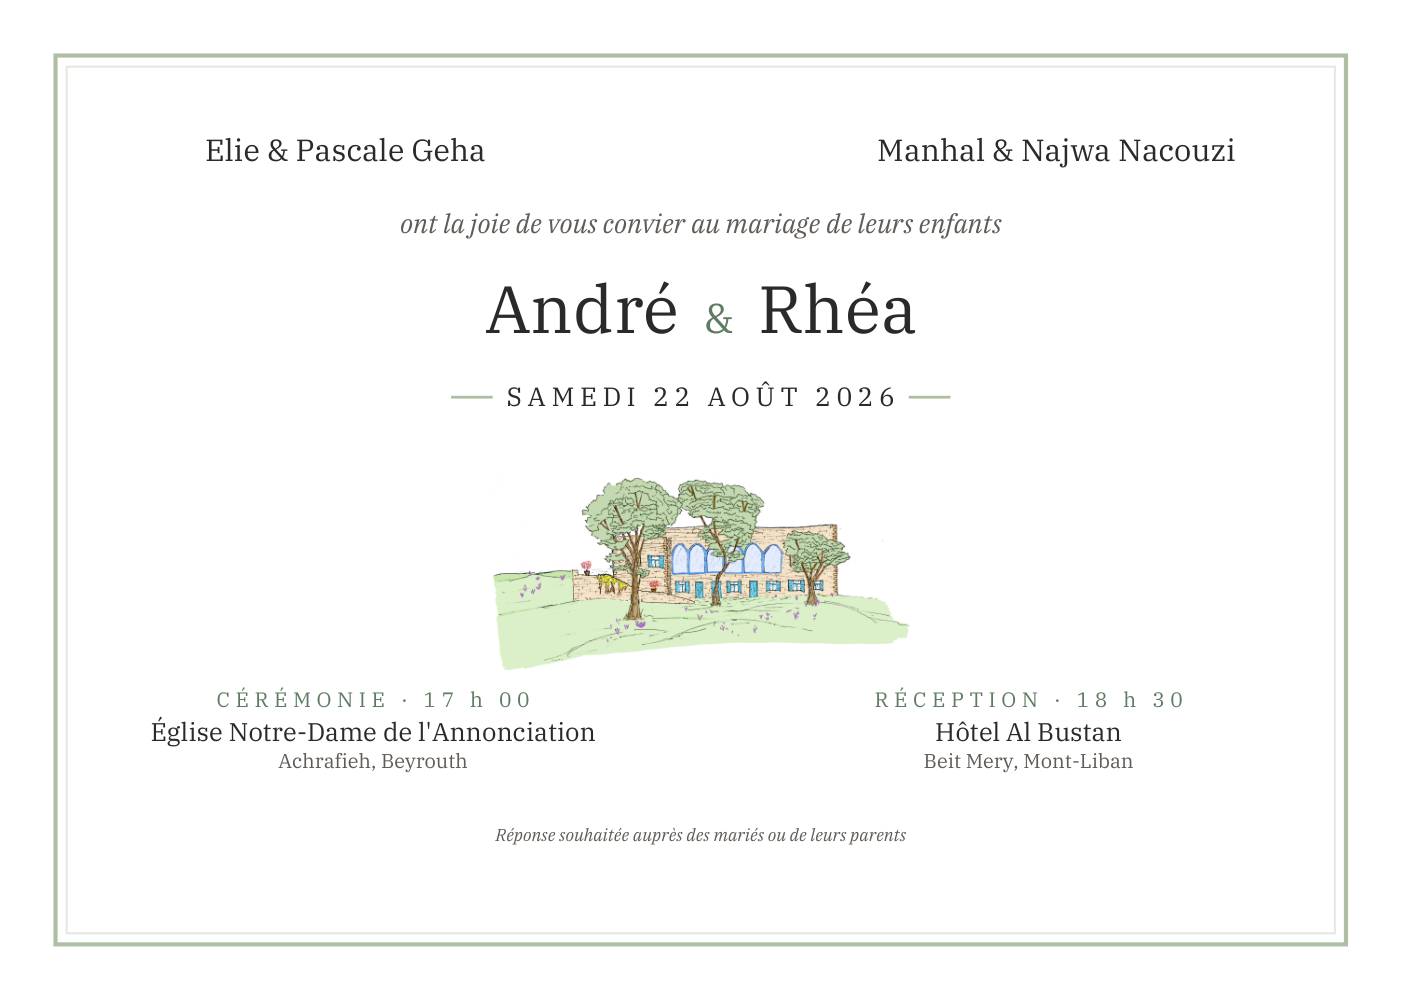
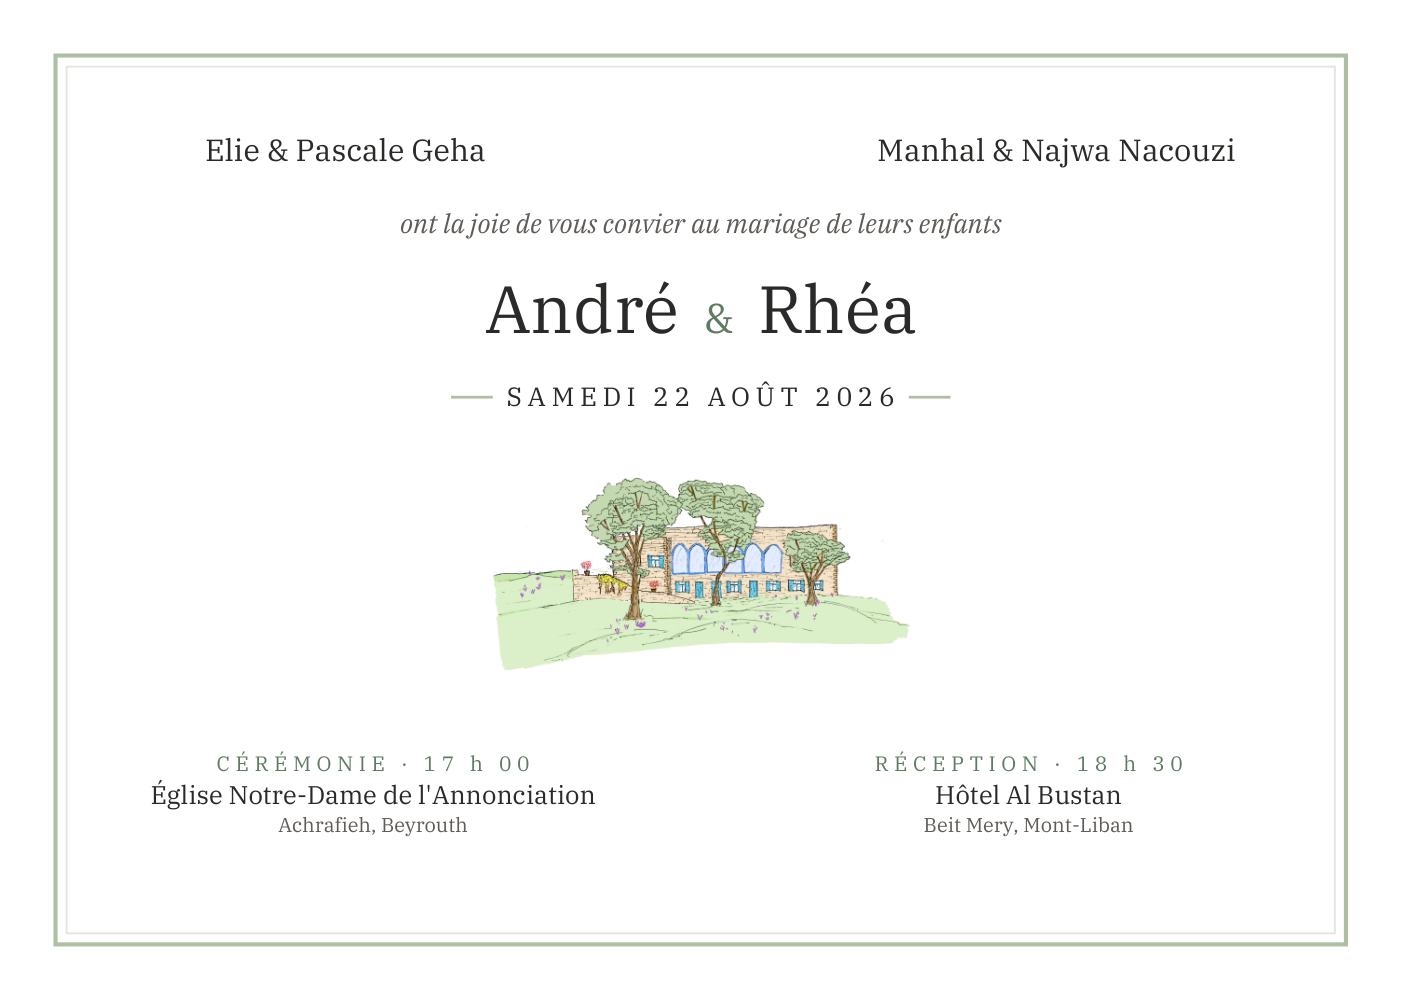
Minimal card: remove RSVP line, lower cérémonie/réception into the freed space (#43)
Claude-Session: https://claude.ai/code/session_01Wi2TL2Ecb6DLgMXuheYsrH

Changed region(s): [[0.092, 0.682, 0.4294, 0.837], [0.6134, 0.682, 0.8281, 0.837]]

diff --git a/assets/print/generate_invitation.py b/assets/print/generate_invitation.py
@@ -140,38 +140,38 @@ def render_card(path, png, qr_on=True, gift_on=True):
     ih = iw*art.height/art.width
     c.drawImage(ImageReader(art), cx-iw/2, H-(top_img+ih), width=iw, height=ih)
 
-    # ceremony / reception two columns
+    # ceremony / reception two columns — dropped lower on the minimal card so they take the
+    # space freed by removing the RSVP line + footer
     def vblock(role, venue, addr, cxc, top):
         spaced(role, cxc, top, "Plex", 7.5, 2.0, SAGE)
         center(venue, cxc, top+12, "Plex", 9.2, INK)
         center(addr, cxc, top+22, "Plex", 7.2, MUTED)
-    vy = top_img + ih + 13
+    vy = top_img + ih + (36 if not gift_on else 13)
     vblock(*CEREMONY, cx-118, vy)
     vblock(*RECEPTION, cx+118, vy)
 
-    # RSVP line (with the QR beside it when qr_on); the minimal card drops the deadline + « en ligne »
-    rsvp = ("Réponse souhaitée avant le 28 juillet 2026 — auprès des mariés, de leurs parents, ou en ligne"
-            if gift_on else "Réponse souhaitée auprès des mariés ou de leurs parents")
-    ry_top = vy + 22 + 11
-    if qr_on:
-        qw = qr.QrCodeWidget(SITE); qw.barFillColor = INK
-        b = qw.getBounds(); bw, bh = b[2]-b[0], b[3]-b[1]; qs = 26
-        c.setFont("PlexIt", 6.2); rw = c.stringWidth(rsvp, "PlexIt", 6.2)
-        gap = 9; gx = cx - (rw + gap + qs)/2
-        c.setFillColor(MUTED); c.drawString(gx, Y(ry_top + qs/2 + 2.2), rsvp)
-        dwg = Drawing(qs, qs, transform=[qs/bw, 0, 0, qs/bh, 0, 0]); dwg.add(qw)
-        renderPDF.draw(dwg, c, gx + rw + gap, H-(ry_top+qs))
-        gy = ry_top + qs + 13
-    else:
-        center(rsvp, cx, ry_top + 15, "PlexIt", 6.2, MUTED)
-        gy = ry_top + 39
-
-    # discreet gift footer — small title, one compact line per account (omitted on the minimal card)
     if gift_on:
+        # RSVP line (with the QR beside it when qr_on), then the « Liste de mariage » footer
+        rsvp = "Réponse souhaitée avant le 28 juillet 2026 — auprès des mariés, de leurs parents, ou en ligne"
+        ry_top = vy + 22 + 11
+        if qr_on:
+            qw = qr.QrCodeWidget(SITE); qw.barFillColor = INK
+            b = qw.getBounds(); bw, bh = b[2]-b[0], b[3]-b[1]; qs = 26
+            c.setFont("PlexIt", 6.2); rw = c.stringWidth(rsvp, "PlexIt", 6.2)
+            gap = 9; gx = cx - (rw + gap + qs)/2
+            c.setFillColor(MUTED); c.drawString(gx, Y(ry_top + qs/2 + 2.2), rsvp)
+            dwg = Drawing(qs, qs, transform=[qs/bw, 0, 0, qs/bh, 0, 0]); dwg.add(qw)
+            renderPDF.draw(dwg, c, gx + rw + gap, H-(ry_top+qs))
+            gy = ry_top + qs + 13
+        else:
+            center(rsvp, cx, ry_top + 15, "PlexIt", 6.2, MUTED)
+            gy = ry_top + 39
+        # discreet gift footer — small title, one compact line per account
         c.setStrokeColor(LINE2); c.setLineWidth(0.7); c.line(cx-84, Y(gy), cx+84, Y(gy))
         spaced(GIFT_TITLE, cx, gy+9, "Plex", 6.2, 1.6, SAGE)
         center(GIFT_LB, cx, gy+18, "Plex", 5.9, MUTED)
         center(GIFT_FR, cx, gy+26, "Plex", 5.9, MUTED)
+    # (minimal card: no RSVP line and no footer — the venues are the last element)
     c.showPage(); c.save()
     fitz.open(path)[0].get_pixmap(dpi=200).save(png)
     print("wrote", path, "+ preview")

diff --git a/.claude/memory/changelog.md b/.claude/memory/changelog.md
@@ -2,6 +2,10 @@
 
 Dated log of what changed each session. Newest at top.
 
+## 2026-06-30 (20) — Minimal card: drop RSVP line, lower cérémonie/réception
+- On `invitation-minimal`, removed the « Réponse souhaitée… » line entirely and dropped the
+  cérémonie/réception block lower (vy offset +36 vs +13) to take the freed space — balanced.
+
 ## 2026-06-30 (19) — Third faire-part: minimal (no QR / no gift list / no deadline)
 - Added **`invitation-minimal.pdf`** (178×127 mm): drops the QR, the « Liste de mariage », and
   the deadline. Illustration enlarged (iw 122→150) so it stays balanced without the footer;
